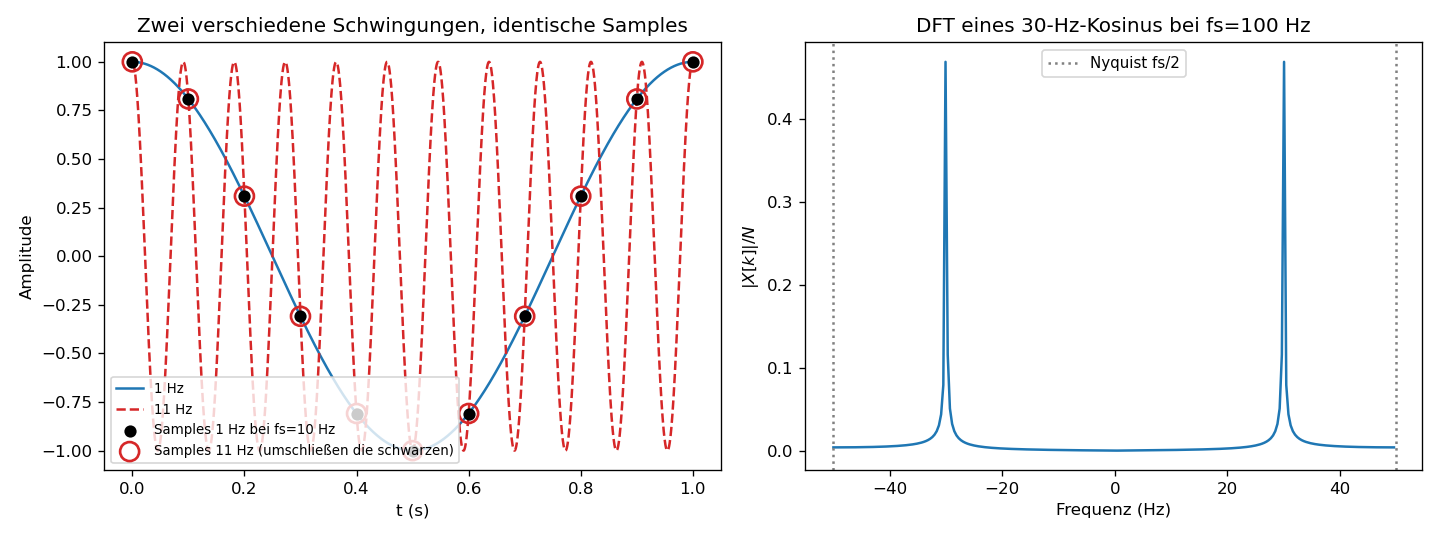
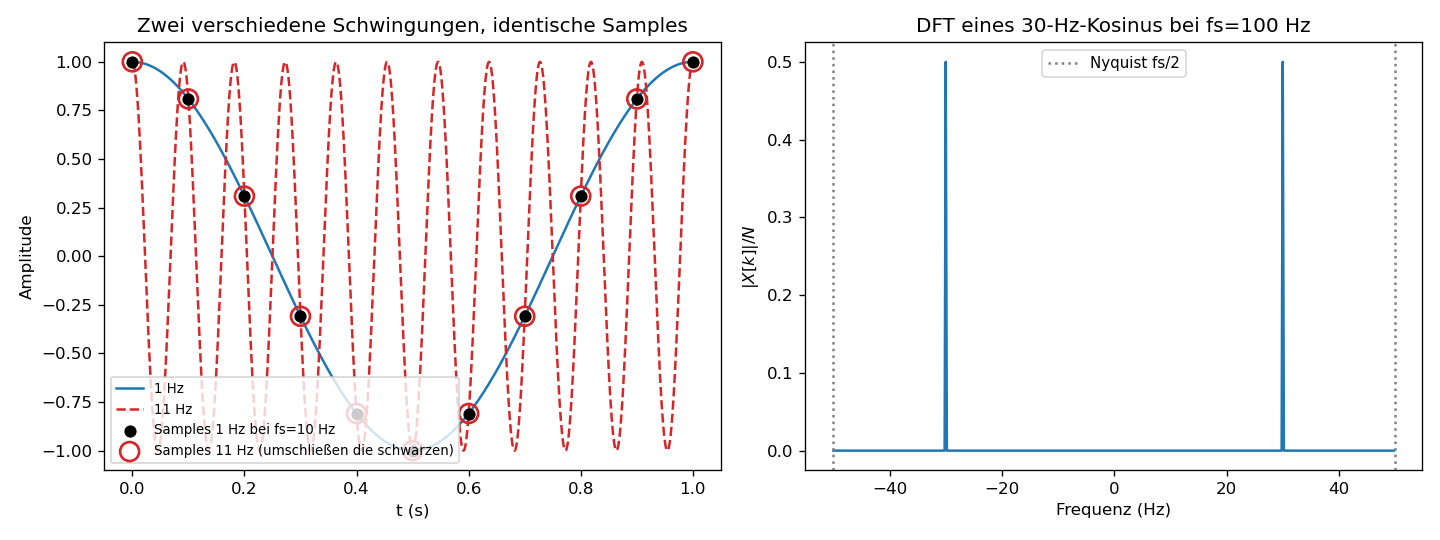
Fix FFT visualization examples

diff --git a/kurs/scripts/projekte/projekt-1-fft-signale.py b/kurs/scripts/projekte/projekt-1-fft-signale.py
@@ -17,7 +17,7 @@ import matplotlib.pyplot as plt
 import numpy as np
 
 fs = 1000.0
-N = 1024
+N = 1000
 t = (np.arange(N) - N / 2) / fs       # symmetrisch um 0
 
 freq = 50.0
@@ -56,7 +56,8 @@ for row, (name, x) in enumerate(signals.items()):
     axes[row, 1].set_xlabel("f (Hz)")
     axes[row, 1].grid(alpha=0.3)
 
-    axes[row, 2].plot(freqs, phase_display, color="C3", lw=1.4)
+    axes[row, 2].plot(freqs, phase_display, color="C3", linestyle="none",
+                      marker="o", markersize=3)
     axes[row, 2].set_xlim(-150, 150)
     axes[row, 2].set_ylim(-np.pi - 0.2, np.pi + 0.2)
     axes[row, 2].set_yticks([-np.pi, -np.pi / 2, 0, np.pi / 2, np.pi])

diff --git a/kurs/scripts/einheit-5.py b/kurs/scripts/einheit-5.py
@@ -32,7 +32,7 @@ ax_time.set_ylabel("Amplitude")
 ax_time.set_title("Zwei verschiedene Schwingungen, identische Samples")
 ax_time.legend(loc="lower left", fontsize=8)
 
-N = 256
+N = 500
 fs_demo = 100.0
 n = np.arange(N)
 true_freq = 30.0

diff --git a/kurs/scripts/README.md b/kurs/scripts/README.md
@@ -26,7 +26,7 @@ python3 kurs/scripts/einheit-3.py
 ## Alle Abbildungen neu erzeugen
 
 ```bash
-for f in kurs/scripts/einheit-*.py; do python3 "$f"; done
+for f in kurs/scripts/einheit-*.py kurs/scripts/projekte/*.py; do python3 "$f"; done
 ```
 
 ## Aufbau

diff --git a/kurs/einheit-5.md b/kurs/einheit-5.md
@@ -90,7 +90,7 @@ Kernidee in Python (vollständiges Skript: [`scripts/einheit-5.py`](scripts/einh
 import numpy as np
 
 fs = 100.0
-N = 256
+N = 500
 n = np.arange(N)
 signal = np.cos(2 * np.pi * 30.0 * n / fs)
 
